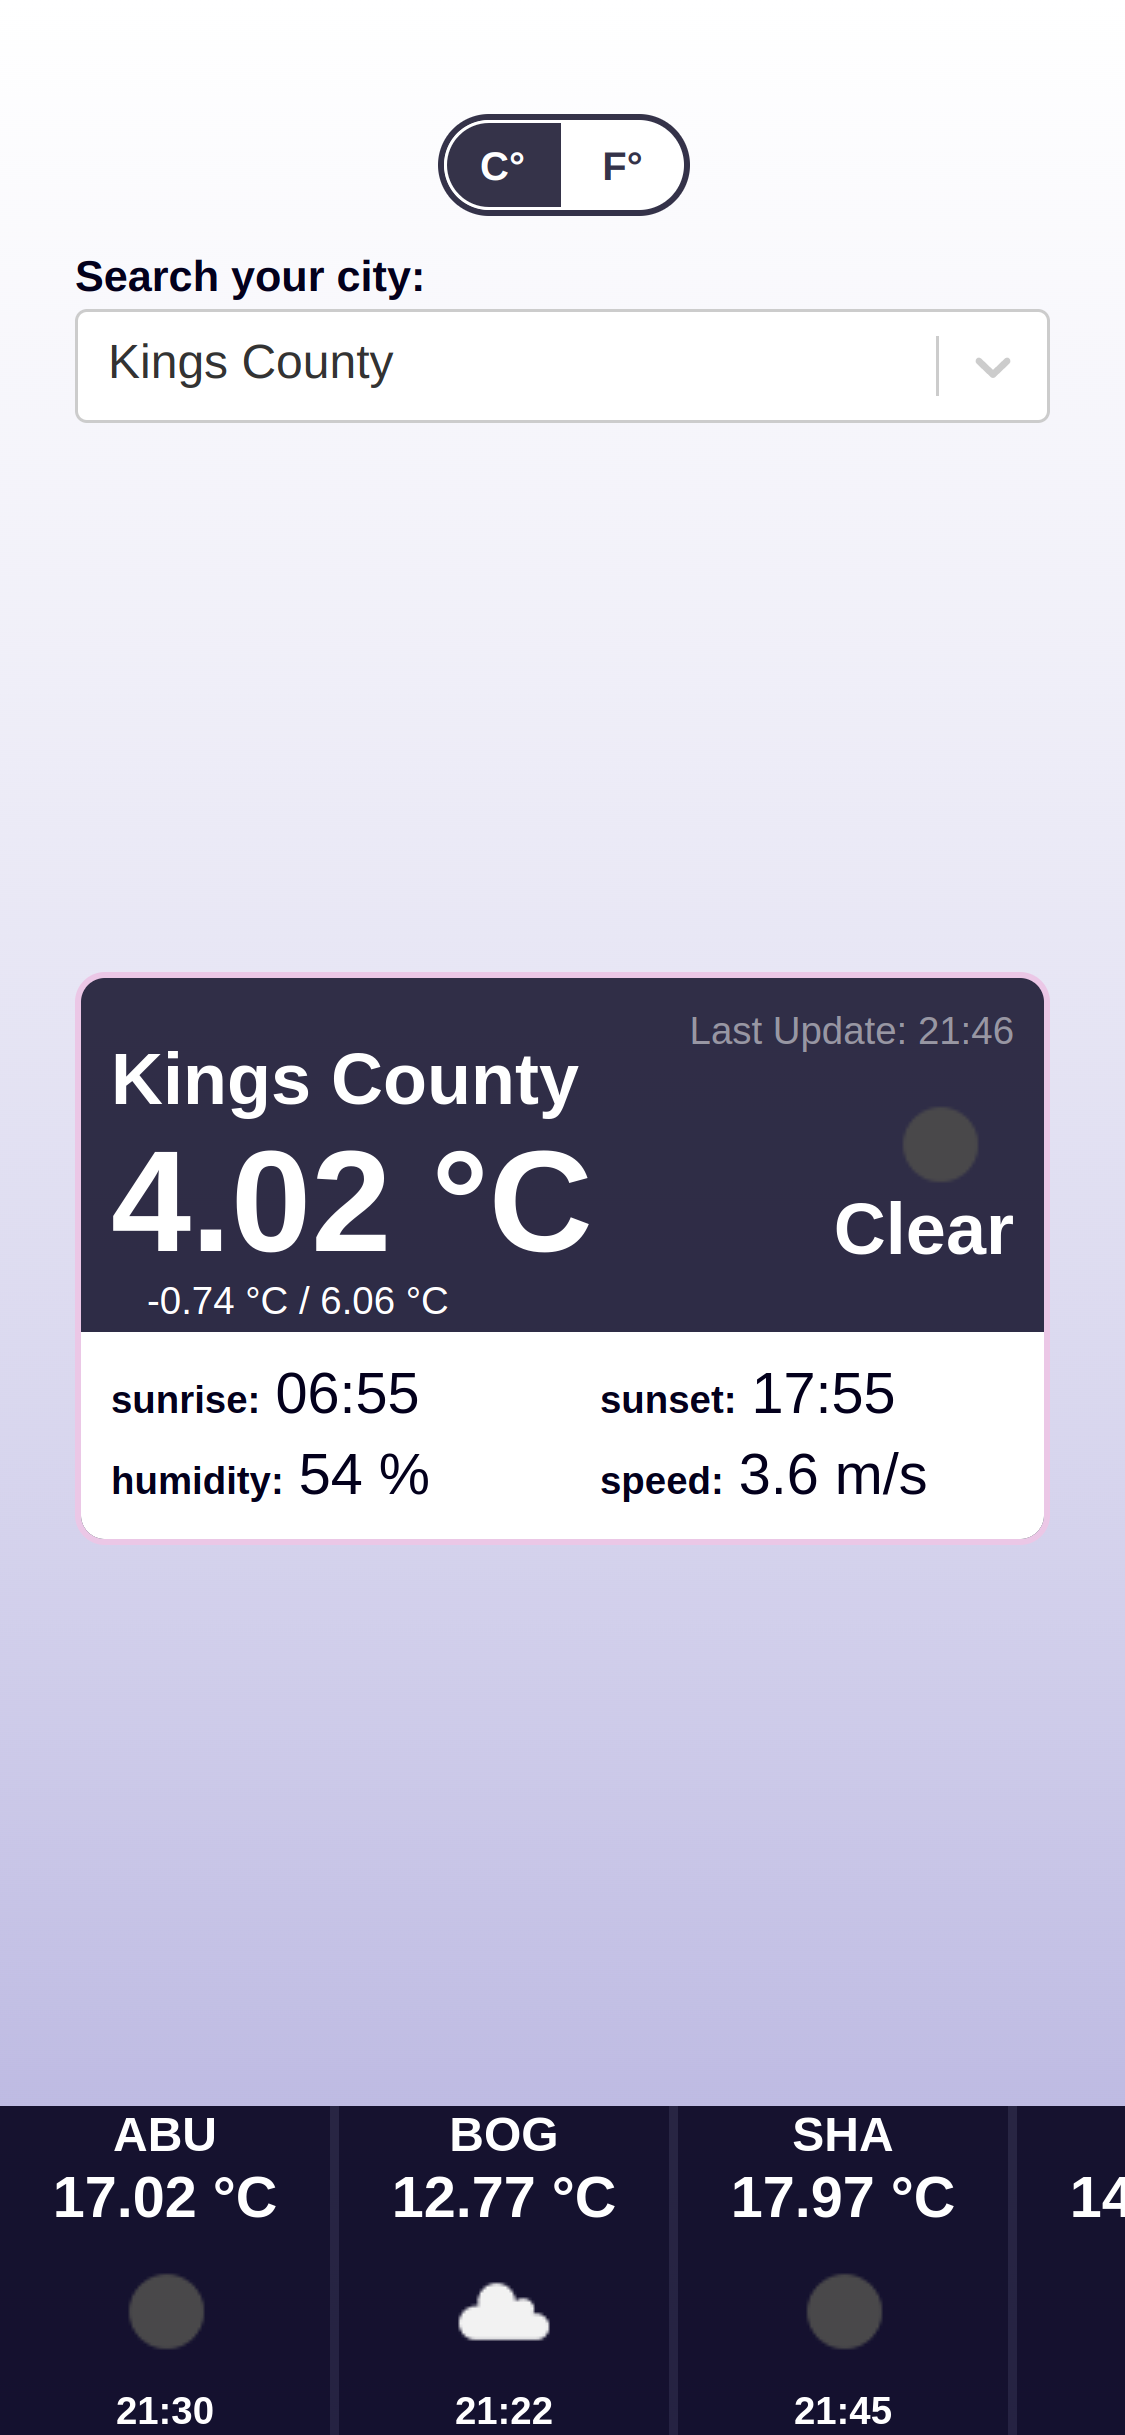
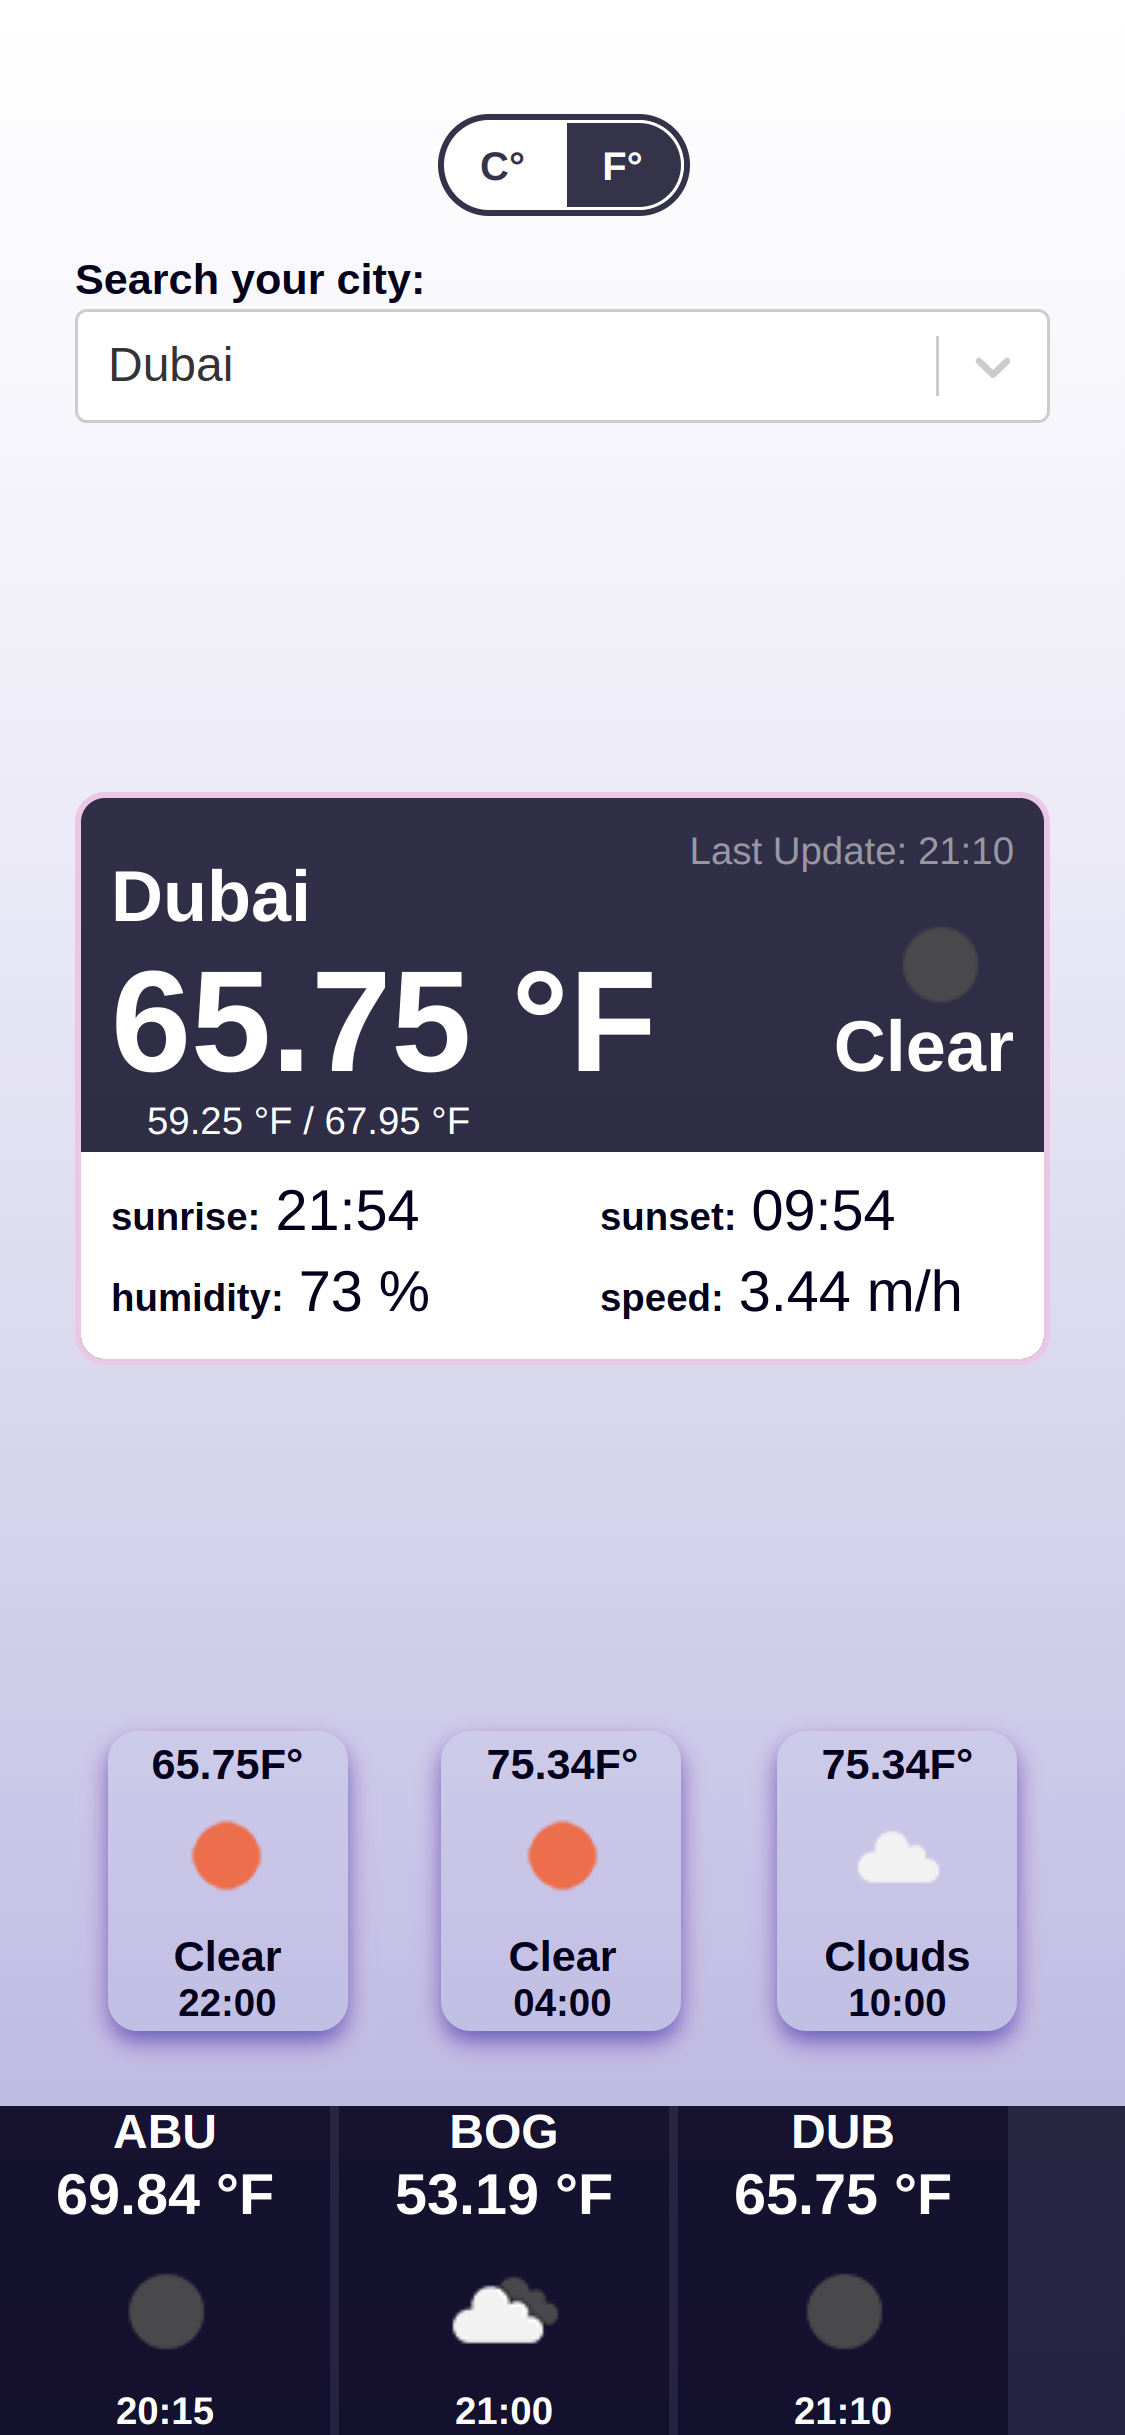
Build (Forecast): Create forecast section when a city is selected

diff --git a/src/store/thunks/citiesWeatherThunk.js b/src/store/thunks/citiesWeatherThunk.js
@@ -1,5 +1,17 @@
 import { onLoadingInfo, onErrorDuringFetching, selectCityToFetch, setCache } from "../slices/citiesWeatherSlice";
-import { getCityWeatherInfo } from "@/api/openWeatheAPI";
+import { getCityWeatherInfo, getCityWeatherForecast } from "@/api/openWeatheAPI";
+
+const forecastObject = (obj) => {
+    const date = new Date(obj.dt * 1000);
+
+    return {
+        date: `${date.getHours()<10?'0':''}${date.getHours()}:${date.getMinutes()<10?'0':''}${date.getMinutes()}`,
+        temp: obj.main.temp,
+        icon: obj.weather[0].icon,
+        desc: obj.weather[0].main,
+        humidity: obj.main.humidity
+    }
+}
 
 export const getCityWeather = (cityInfo) => {
     return async(dispatch, getState) => {
@@ -30,7 +42,10 @@ export const getCityWeather = (cityInfo) => {
 
             try { 
                 const cityWeatherInfo = await getCityWeatherInfo(latitude, longitude, format.unit);
+                let cityWeatherForecast = await getCityWeatherForecast(latitude, longitude, format.unit);
         
+                cityWeatherForecast = cityWeatherForecast.list.map( (hourWeather) => forecastObject(hourWeather) )
+
                 const citylastUpdateHour = new Date(cityWeatherInfo.dt * 1000)
                 const citySunriseHour = new Date(cityWeatherInfo.sys.sunrise * 1000)
                 const citySunsetHour = new Date(cityWeatherInfo.sys.sunset * 1000);
@@ -57,7 +72,8 @@ export const getCityWeather = (cityInfo) => {
                         `${citySunsetHour.getHours()<10?'0':''}${citySunsetHour.getHours()}:${citySunriseHour.getMinutes()<10?'0':''}${citySunriseHour.getMinutes()}`,
                         humidity:`${cityWeatherInfo.main.humidity} %`,
                         windSpeed: `${cityWeatherInfo.wind.speed} ${format.windMetric}`
-                    }
+                    },
+                    forecast: cityWeatherForecast.splice(0,5),
                 }
 
                 dispatch( selectCityToFetch(newCityInfo) )

diff --git a/src/components/organisms/Forecast.jsx b/src/components/organisms/Forecast.jsx
@@ -1,0 +1,34 @@
+import { useSelector } from "react-redux";
+import ForecastCard from "@/components/molecules/ForecastCard";
+import '@styles/components/Forecast.scss';
+
+function Forecast() {
+    const { city, isLoading, error, format } = useSelector(state => state.citiesWeather)
+    const { forecast: forecastElements } = city
+
+    return(
+        <div className="forecast">
+            {
+                !error && !isLoading &&
+                forecastElements.map( forecast => (
+                    <ForecastCard 
+                        key={forecast.date}
+                        hour={forecast.date}
+                        format={format.id}
+                        temperature={forecast.temp}
+                        icon={forecast.icon}
+                        description={forecast.desc}
+                    />
+                ))
+            }
+            {
+                isLoading && 
+                <ForecastCard 
+                    isLoading={isLoading}
+                />
+            }
+        </div>
+    )
+}
+
+export default Forecast;

diff --git a/src/components/molecules/WeatherCard.jsx b/src/components/molecules/WeatherCard.jsx
@@ -1,5 +1,6 @@
 import InfoLabels from "../atoms/InfoLabels"
 import { useSelector } from 'react-redux';
+import { getWeatherIcon } from "@/api/openWeatheAPI";
 import Loader from "@components/atoms/Loader";
 import '@styles/components/WeatherCard.scss'
 
@@ -20,7 +21,7 @@ function WeatherCard() {
                         <span className="weatherCard__lastUpdate">last update: {weather.lastUpdateHour}</span>
                         <h1 className="weatherCard__city">{info.label}</h1>
                         <h2 className="weatherCard__temp">{weather.current_temp}</h2>
-                        <img src={`http://openweathermap.org/img/wn/${weather.icon}.png`} alt={weather.icon} className="weatherCard__img" />
+                        <img src={getWeatherIcon(weather.icon)} alt={weather.icon} className="weatherCard__img" />
                         <h2 className="weatherCard__state">{weather.main}</h2>
                         <span className="weatherCard__tempVariables">{weather.min_temp} / {weather.max_temp}</span>
                     </div>

diff --git a/src/styles/components/ForecastCard.scss b/src/styles/components/ForecastCard.scss
@@ -1,0 +1,45 @@
+@import '@styles/variables';
+
+.forecast{
+    &__card {
+        display: grid;
+        color: $text-color;
+        text-align: center;
+        font-size: .9rem;
+        font-weight: bold;
+        width: 80px;
+        height: 100px;
+        border-radius: 10px;
+        box-shadow: 0 4px 8px 0 $selected-color,0 4px 10px .1px $selected-color-clear;
+        transition: background-color .3s ease-in;
+
+
+        &:hover{
+            background-color: $selected-color-clear;
+            cursor: pointer;
+        }
+
+        &:nth-child(2n){
+            display: none;
+        }
+        
+        @media screen and (min-width: $medium) {
+            &:nth-child(2n){
+                display: block;
+            }
+        }
+    }
+
+    &__temp{
+        padding-top: 3px;
+    }
+    
+    &__icon{
+       width: 45px;
+       height: 45px;
+    }
+
+    &__hour{
+        font-size: .8rem;
+    }
+}

diff --git a/src/api/openWeatheAPI.js b/src/api/openWeatheAPI.js
@@ -1,7 +1,7 @@
 import axios from "axios"
 
 const WEATHER_URL = 'https://api.openweathermap.org/data/2.5';
-const WEATHER_KEY = '';
+const WEATHER_KEY = '218249339ae75426930a0e95e157057b';
 
 const weatherInstance = axios.create({
     baseURL: WEATHER_URL
@@ -10,3 +10,9 @@ const weatherInstance = axios.create({
 export const getCityWeatherInfo = async (latitude, longitude, units) => 
     await weatherInstance.get(`/weather?lat=${latitude}&lon=${longitude}&units=${units}&appid=${WEATHER_KEY}`)
             .then((response) => response.data)
+
+export const getCityWeatherForecast = async(latitude, longitude, units) =>
+    await weatherInstance.get(`/forecast?lat=${latitude}&lon=${longitude}&units=${units}&appid=${WEATHER_KEY}`)
+            .then((response) => response.data)
+
+export const getWeatherIcon = (nameFile) => `http://openweathermap.org/img/wn/${nameFile}.png`

diff --git a/src/components/molecules/ForecastCard.jsx b/src/components/molecules/ForecastCard.jsx
@@ -1,0 +1,25 @@
+import { getWeatherIcon } from "@/api/openWeatheAPI";
+import Loader from "@components/atoms/Loader";
+import '@styles/components/ForecastCard.scss';
+
+function ForecastCard({hour, format, temperature, icon, description, isLoading = false}){
+    return(
+        <>
+            {
+                !isLoading && 
+                <div className="forecast__card">
+                    <p className="forecast__temp">{temperature}{format}°</p>
+                    <img src={getWeatherIcon(icon)} alt={icon} className='forecast__icon' />
+                    <p className="forecast__desc">{description}</p>
+                    <p className="forecast__hour">{hour}</p>
+                </div>
+            }
+            {
+                isLoading && 
+                    <Loader />
+            }
+        </>
+    )
+}
+
+export default ForecastCard;

diff --git a/src/pages/Home.jsx b/src/pages/Home.jsx
@@ -2,7 +2,8 @@ import HomeTemplate from "@components/templates/HomeTemplate";
 import SwitchFormat from "@components/atoms/SwitchFormat";
 import SearchableSelect from "@components/molecules/SearchableSelect";
 import WeatherCard from '@components/molecules/WeatherCard';
-import Resume from "../components/molecules/Resume";
+import Forecast from "@/components/organisms/Forecast";
+import Resume from "@/components/organisms/Resume";
 import { getCityWeather } from "../store/thunks/citiesWeatherThunk";
 import { useEffect } from "react";
 import { useSelector, useDispatch } from "react-redux";
@@ -27,6 +28,7 @@ function Home(){
             <SwitchFormat />
             <SearchableSelect />
             <WeatherCard />
+            <Forecast />
             <Resume />
         </HomeTemplate>
     )

diff --git a/src/styles/pages/Home.scss b/src/styles/pages/Home.scss
@@ -8,16 +8,17 @@ main{
     grid-template-rows: 60px auto 1fr;
     align-items: center;
     justify-items: center;
-    padding: 25px 25px 115px;
+    padding: 25px 25px 135px;
 
     @media screen and (min-width: $medium){
         width: $medium;
         margin: auto;
         grid-template-areas: 
         "search card"
-        "switch card";
+        "switch card"
+        "forecast forecast";
         grid-template-columns: 35% 65%;
-        grid-template-rows: 1fr 1fr 50px;
+        grid-template-rows: 1fr 1fr auto;
         gap:15px;
 
         .switch{
@@ -31,6 +32,9 @@ main{
         .weatherCard{
             grid-area: card;
             align-self: center;
+        }
+        .forecast{
+            grid-area: forecast;
         }
     }
 

diff --git a/src/components/molecules/ResumeCard.jsx b/src/components/molecules/ResumeCard.jsx
@@ -1,3 +1,4 @@
+import { getWeatherIcon } from '@/api/openWeatheAPI';
 import '@styles/components/ResumeCard.scss';
 
 function ResumeCard({id, cityName, currentTemp, icon, lastUpdateHour, handleClick}){
@@ -22,7 +23,7 @@ function ResumeCard({id, cityName, currentTemp, icon, lastUpdateHour, handleClic
             <h2 className='resume__temp'>{currentTemp}</h2>
             <img 
                 alt={icon} 
-                src={`http://openweathermap.org/img/wn/${icon}.png`} 
+                src={getWeatherIcon(icon)} 
                 className='resume__icon'
             />
             <h3 className='resume__lastUpdate'>{lastUpdateHour}</h3>

diff --git a/src/styles/components/Forecast.scss b/src/styles/components/Forecast.scss
@@ -1,0 +1,21 @@
+@import '@styles/variables';
+
+.forecast{
+    position: relative;
+    display: flex;
+    flex-wrap: wrap;
+    justify-content: space-around;
+    gap: 10px;
+    align-items: center;
+    width: 100%;
+    height: 100%;
+
+    &__title{
+        position: absolute;
+    }
+
+    @media screen and (min-width: $medium) {
+        justify-content: center;            
+    }
+
+}

diff --git a/src/components/organisms/Resume.jsx b/src/components/organisms/Resume.jsx
@@ -2,7 +2,7 @@ import '@styles/components/Resume.scss';
 import { useEffect, useState } from 'react';
 import { useSelector, useDispatch } from 'react-redux';
 import { getCityWeather } from '@/store/thunks/citiesWeatherThunk';
-import ResumeCard from './ResumeCard';
+import ResumeCard from '@/components/molecules/ResumeCard';
 
 function Resume(){
     const {

diff --git a/src/api/geoCitiesAPI.js b/src/api/geoCitiesAPI.js
@@ -4,7 +4,7 @@ const GEO_URL = 'https://wft-geo-db.p.rapidapi.com/v1/geo';
 
 export const options = {
     headers:{
-        'X-RapidAPI-Key': '',
+        'X-RapidAPI-Key': '02e820b521msh99a61fda1268e60p175a5ajsn58fda741f25a',
         'X-RapidAPI-Host': 'wft-geo-db.p.rapidapi.com'
     }
 }
